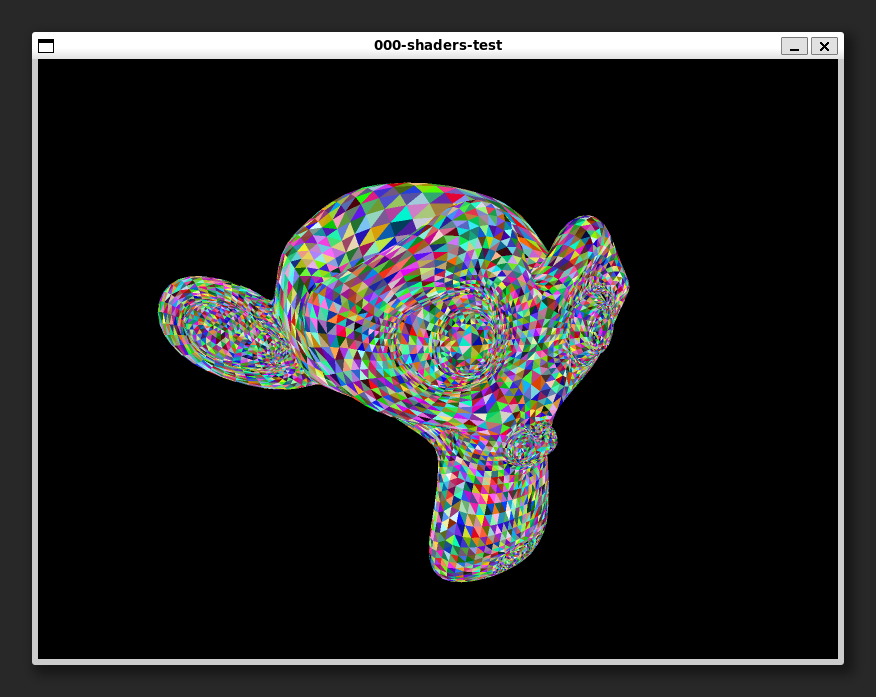
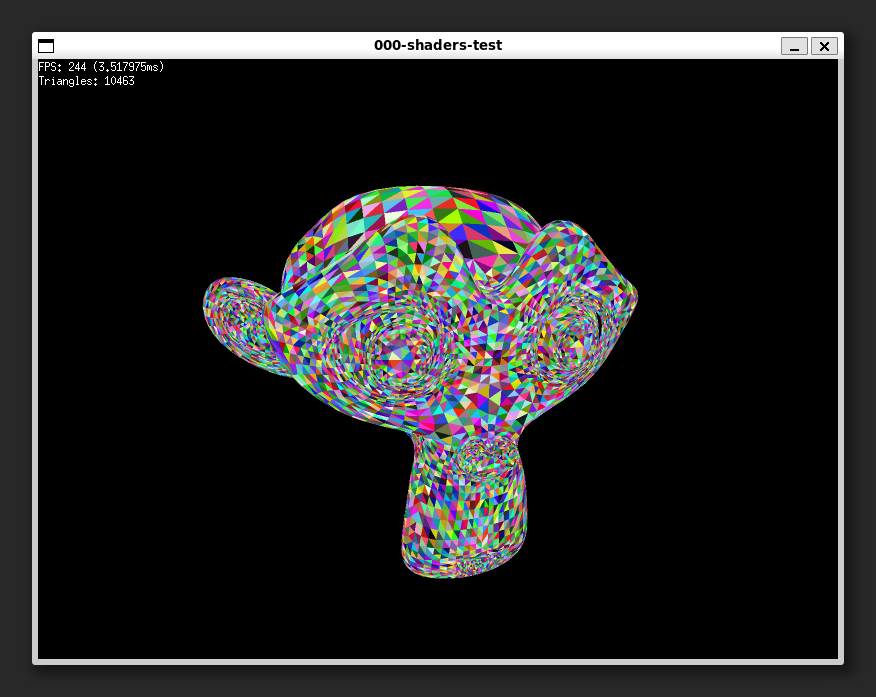
disabled vsync and added fps and frametime debug

Changed region(s): [[0.1541, 0.241, 0.7397, 0.8436], [0.0308, 0.0904, 0.1849, 0.1205]]

diff --git a/cmd/000-shaders-test/main.go b/cmd/000-shaders-test/main.go
@@ -11,9 +11,11 @@ import (
 	"math"
 	"math/rand/v2"
 	"slices"
+	"time"
 
 	"github.com/go-gl/mathgl/mgl32"
 	"github.com/hajimehoshi/ebiten/v2"
+	"github.com/hajimehoshi/ebiten/v2/ebitenutil"
 )
 
 const (
@@ -71,6 +73,7 @@ func main() {
 
 	ebiten.SetWindowTitle("000-shaders-test")
 	ebiten.SetWindowSize(game_width, game_height)
+	ebiten.SetVsyncEnabled(false)
 
 	err = ebiten.RunGame(game)
 
@@ -80,10 +83,11 @@ func main() {
 }
 
 type Game struct {
-	cycle   float32
-	shader  *ebiten.Shader
-	white   *ebiten.Image
-	suzanne *mesh
+	cycle     float32
+	shader    *ebiten.Shader
+	white     *ebiten.Image
+	suzanne   *mesh
+	frametime time.Duration
 }
 
 type vertex struct {
@@ -213,6 +217,15 @@ func (self *Game) Update() error {
 }
 
 func (self *Game) Draw(screen *ebiten.Image) {
+	defer func(t time.Time) {
+		ft := time.Now().Sub(t)
+		if self.frametime == 0 {
+			self.frametime = ft
+		} else {
+			self.frametime += (ft - self.frametime) / 2
+		}
+	}(time.Now())
+
 	var ctx context
 	w := screen.Bounds().Dx()
 	h := screen.Bounds().Dy()
@@ -339,4 +352,7 @@ func (self *Game) Draw(screen *ebiten.Image) {
 	screen.DrawTriangles(vertices, indices, self.white, &ebiten.DrawTrianglesOptions{
 		AntiAlias: true,
 	})
+
+	ebitenutil.DebugPrint(screen, fmt.Sprintf("FPS: %.0f (%v)", ebiten.ActualFPS(), self.frametime))
+	ebitenutil.DebugPrintAt(screen, fmt.Sprintf("Triangles: %d", len(screen_triangles)), 0, 14)
 }
